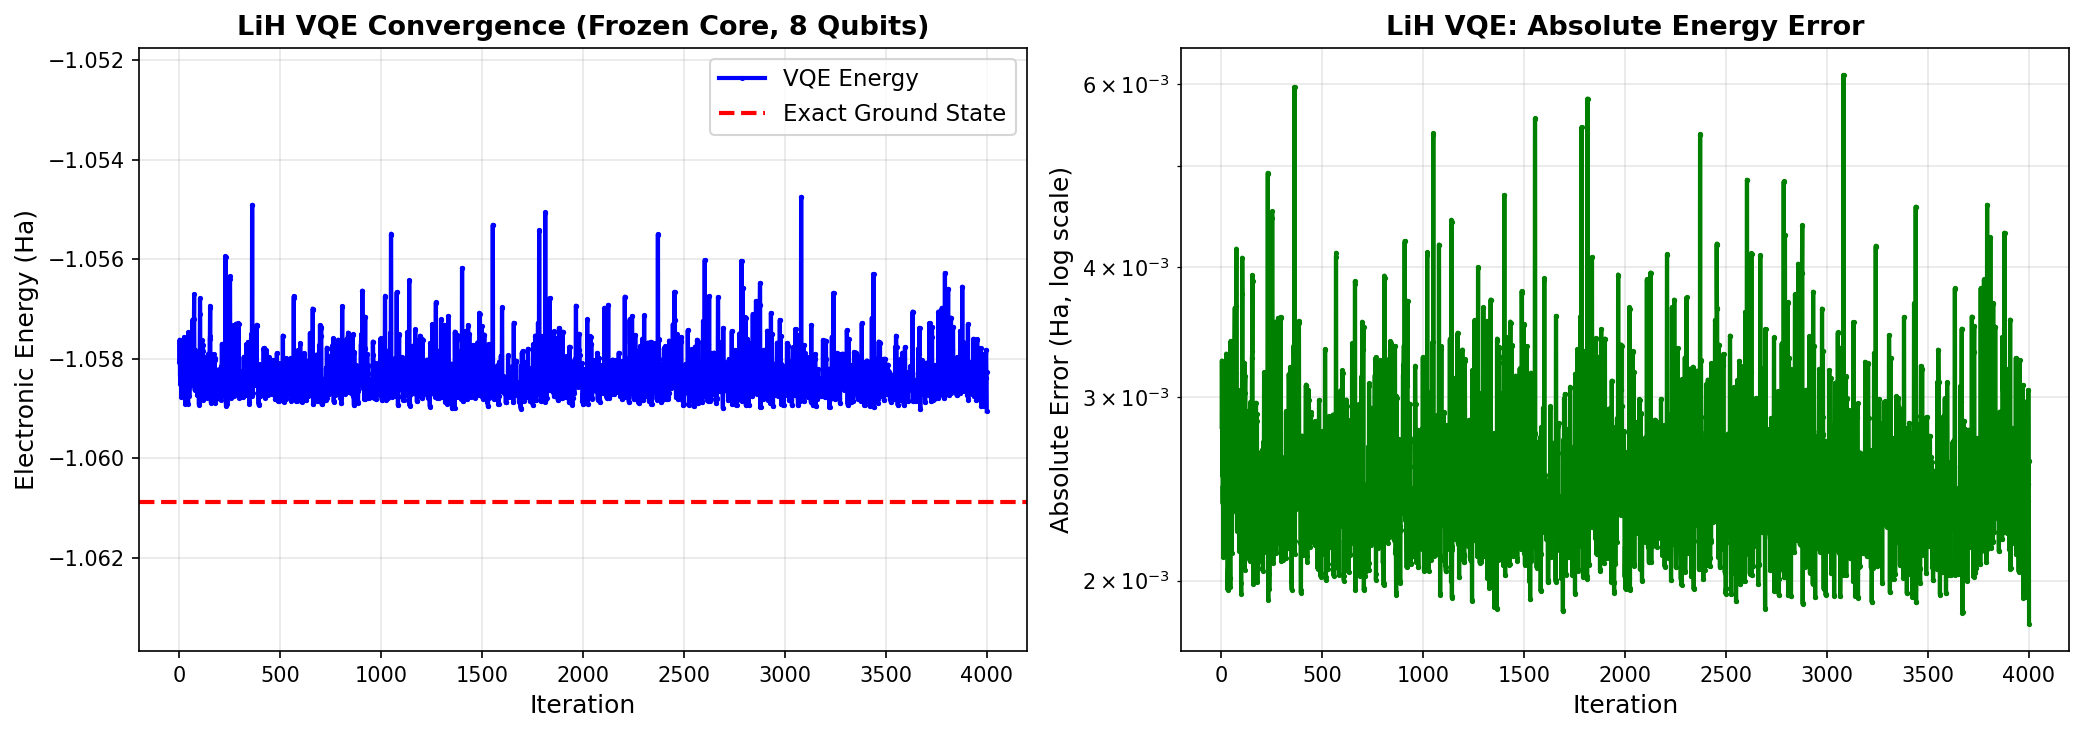
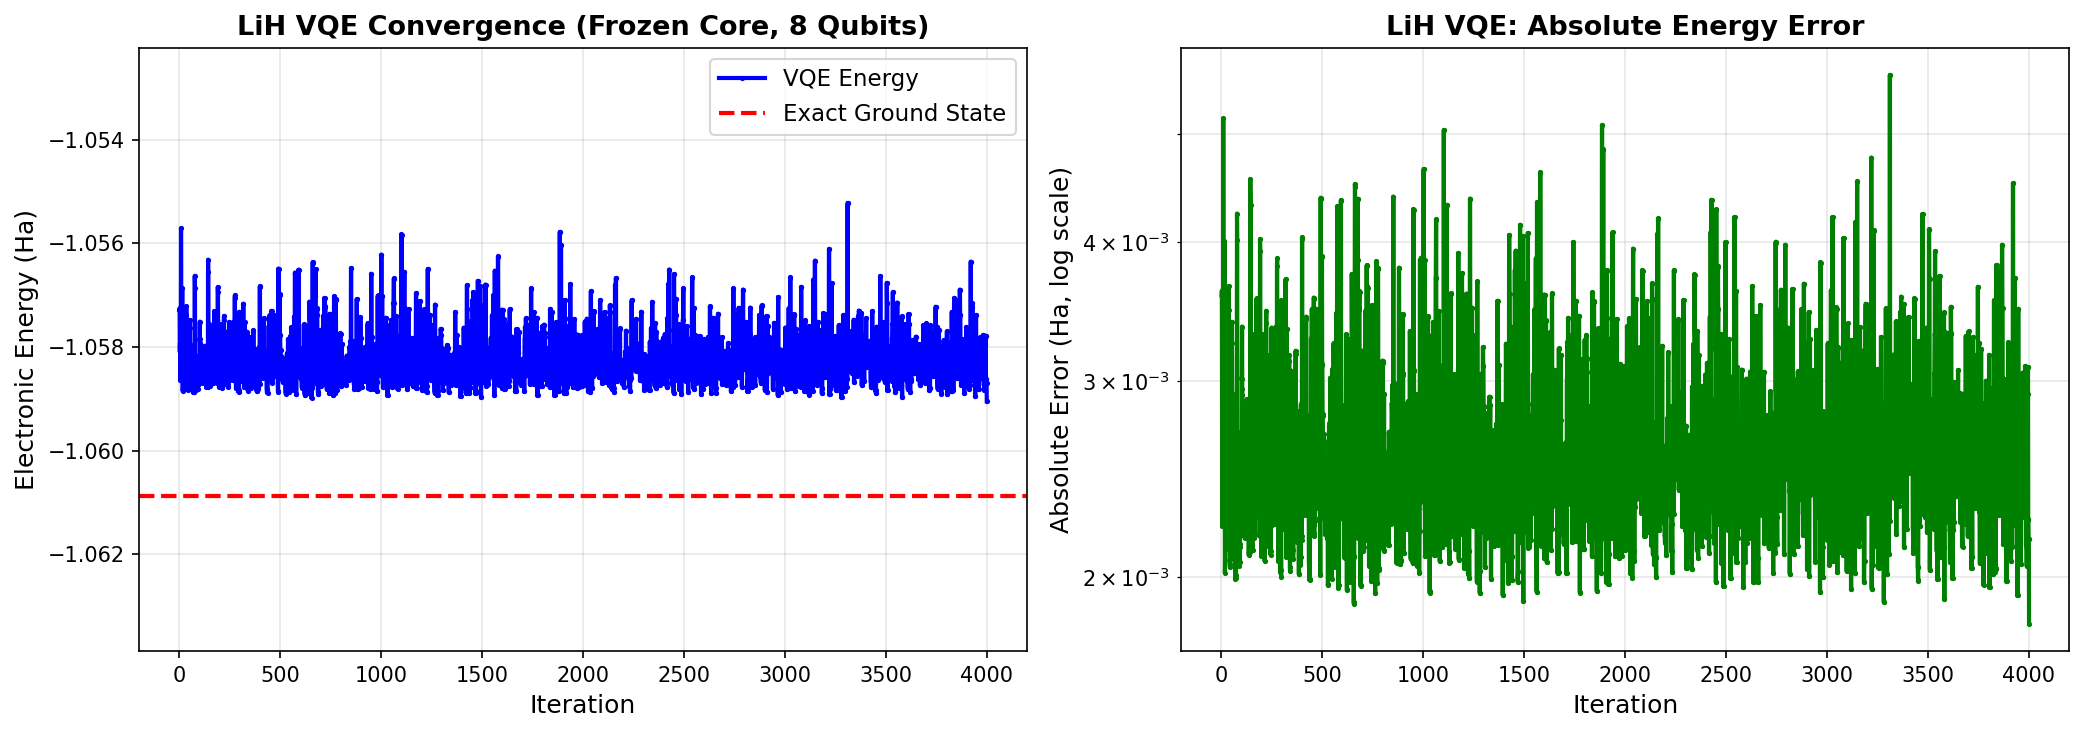
small fix but it didnt rly fix the behavior anyway

diff --git a/qeb_ansatz.py b/qeb_ansatz.py
@@ -207,7 +207,7 @@ class QEBansatz(QuantumCircuit):
         return excitations
 
     def _build_double_excitations(
-        self, max_double_excitations: int = 50
+        self, max_double_excitations: int = 70
     ) -> List[Tuple[int, int, int, int]]:
         """
         Build particle-conserving double excitation pairs.
@@ -226,11 +226,9 @@ class QEBansatz(QuantumCircuit):
         excitations = []
 
         # Generate all valid 4-qubit combinations
-        for (i, j) in combinations(range(self._num_qubits), 2):
-            for (k, l) in combinations(range(self._num_qubits), 2):
-                # Ensure all four qubits are distinct and maintain ordering
-                if i < k and j < l and len(set([i, j, k, l])) == 4:
-                    excitations.append((i, j, k, l))
+        # Using combinations of 4 qubits gives us C(n,4) = C(8,4) = 70 pairs
+        for (i, j, k, l) in combinations(range(self._num_qubits), 4):
+            excitations.append((i, j, k, l))
 
         # Limit to avoid excessive circuit depth
         return excitations[:max_double_excitations]
